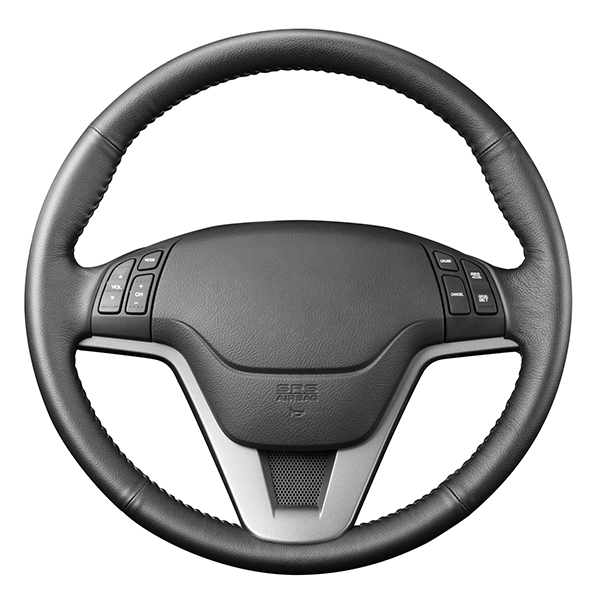
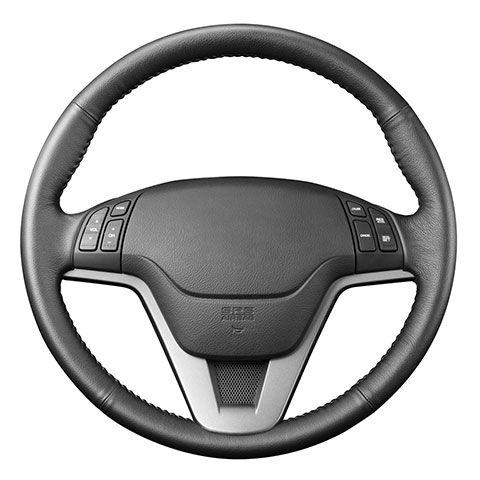
change photo canvas and headings

diff --git a/index.html b/index.html
@@ -11,20 +11,18 @@
   <body>
     <div id="page-container">
       <header></header>
-      <!--mixin	products ()-->
-      <!--  .col.md-4-16.col.sm-8-16.col.xs-16-16-->
-      <!--		a.item-->
+      <!--					a.item(href="http://www.autohidraulika.lt/", target="_blank")-->
       <!---->
-      <!--			.logo-->
-      <!--				.img-box-->
-      <!--					img(src='assets/images/logos/Vairo-centras-logo.jpg', alt='Autohidraulika vairas')-->
+      <!--						.item__logo-->
       <!---->
-      <!--			.img-box.center-->
-      <!--				img(src='assets/images/products/img1.jpg', alt='Autohidraulika vairas')-->
+      <!--							img(src='assets/images/logos/Vairo-centras-logo.jpg', alt='Autohidraulika vairas')-->
       <!---->
-      <!--			.info-->
-      <!--				h2 Autohidraulika-->
-      <!--				p Specializuotas vairo sistemų servisas-->
+      <!---->
+      <!--						img.item__center(src='assets/images/products/1as.jpg', alt='Autohidraulika vairas')-->
+      <!---->
+      <!--						.item__info-->
+      <!--							h2 Autohidraulika-->
+      <!--							p Specializuotas vairo sistemų servisas-->
       <!--mixin category(productLink, number, productHeadline, intro)-->
       <!--	.col.md-4-12-->
       <!--		a(href='' + productLink)-->
@@ -39,22 +37,22 @@
               <div class="items__container"><a class="item" href="http://www.autohidraulika.lt/" target="_blank">
                   <div class="item__logo"><img src="assets/images/logos/Vairo-centras-logo.jpg" alt="Autohidraulika vairas"></div><img class="item__center" src="assets/images/products/1as.jpg" alt="Autohidraulika vairas">
                   <div class="item__info">
-                    <h2>Autohidraulika</h2>
+                    <h3>Autohidraulika</h3>
                     <p>Specializuotas vairo sistemų servisas</p>
                   </div></a><a class="item" href="https://www.atg-components.com/" target="_blank">
                   <div class="item__logo"><img src="assets/images/logos/atg.jpg" alt="atg logo"></div><img class="item__center" src="assets/images/products/2as.jpg" alt="atg components">
                   <div class="item__info">
-                    <h2>atg components</h2>
+                    <h3>atg components</h3>
                     <p>Vairo sistemų remonto komponentai</p>
                   </div></a><a class="item" href="https://www.motorherz.us/" target="_blank">
                   <div class="item__logo"><img src="assets/images/logos/motorherz.jpg" alt="logo motorherz"></div><img class="item__center" src="assets/images/products/3as.jpg" alt="motorherz vairo kolonelės">
                   <div class="item__info">
-                    <h2>motorherz</h2>
+                    <h3>motorherz</h3>
                     <p>Mažmeninė prekyba vairo kolonėlėmis</p>
                   </div></a><a class="item" href="https://www.epstesting.com/" target="_blank">
                   <div class="item__logo"><img src="assets/images/logos/athidraulic.jpg" alt="athidraulic logo"></div><img class="item__center" src="assets/images/products/4as.jpg" alt="eps testing vairo sistemos">
                   <div class="item__info">
-                    <h2>eps testing</h2>
+                    <h3>eps testing</h3>
                     <p>Vairo sistemų agregatų testavimo įranga</p>
                   </div></a></div>
             </div>

diff --git a/assets/css/style.css b/assets/css/style.css
@@ -398,12 +398,12 @@ h1 {
   font-size: 3em; }
 
 h2 {
-  font-size: 2.125em;
-  font-weight: 600;
-  margin: 0; }
+  font-size: 2em; }
 
 h3 {
-  font-size: 1.2em; }
+  font-size: 2.5em;
+  font-weight: 600;
+  margin: 0; }
 
 h4 {
   font-size: 1em; }
@@ -417,7 +417,8 @@ h6 {
 p {
   margin-top: 0.5em;
   margin-bottom: 0;
-  line-height: 19px; }
+  line-height: 19px;
+  font-weight: 500; }
 
 a {
   text-decoration: none; }
@@ -2890,7 +2891,8 @@ blockquote {
   .item .item__info {
     position: absolute;
     bottom: 65px;
-    left: 40px; }
+    padding: 0 40px 0 40px;
+    padding-right: 40px; }
   .item:hover img.item__center {
     -webkit-transform: translateX(0%);
     -ms-transform: translateX(0%);
@@ -2902,11 +2904,14 @@ blockquote {
     -ms-transform: translateX(0%);
     transform: translateX(0%); }
   .item .item__info {
-    left: 20px;
-    bottom: 30px; } }
+    padding: 0 20px 0 20px;
+    bottom: 30px; }
+    .item .item__info h3 {
+      font-size: 2.125em; } }
 
 @media (max-width: 768px) {
   .item {
+    height: 50vh;
     width: 50%;
     border-bottom: solid 1px #E0E0E0; }
     .item .item__logo {
@@ -2919,18 +2924,17 @@ blockquote {
 
 @media (max-width: 568px) {
   .item {
+    height: 480px;
     width: 100%;
     border-bottom: solid 1px #E0E0E0; }
     .item .item__logo {
-      margin: 35px 0 30px 0; }
+      margin: 30px 0 50px 0; }
     .item img.item__center {
-      position: relative;
+      position: static;
       width: 245px; }
     .item .item__info {
-      position: relative;
+      position: static;
       left: 0;
-      top: 50%;
-      -webkit-transform: translateY(-50%);
-      -ms-transform: translateY(-50%);
-      transform: translateY(-50%);
-      text-align: center; } }
+      text-align: center;
+      margin: 25px 0;
+      padding: 0; } }

diff --git a/assets/sass/7_responsive/_1-responsive-layout.sass b/assets/sass/7_responsive/_1-responsive-layout.sass
@@ -2,6 +2,7 @@
 //
 //@media (max-width: $grid-breakpoint-lg)
 
+
 //iPad Pro
 @media (max-width: $grid-breakpoint-md)
 	.item
@@ -12,14 +13,16 @@
 			//height: 300px
 
 		.item__info
-			left: 20px
+			padding: 0 20px 0 20px
 			bottom: 30px
+			h3
+				font-size: 2.125em
 			
 
 //iPad
 @media (max-width: $grid-breakpoint-sm)
 	.item 
-		//height: 515px
+		height: 50vh
 		
 		width: 50%
 		border-bottom: solid 1px $color-secondary
@@ -37,14 +40,14 @@
 //Telefonai
 @media (max-width: $grid-breakpoint-xs)
 	.item
-		//height: 480px
+		height: 480px
 		
 		width: 100%
 		border-bottom: solid 1px $color-secondary
 		.item__logo
-			margin: 35px 0 30px 0
+			margin: 30px 0 50px 0
 		img.item__center
-			position: relative
+			position: static
 			//transform: translateX(0%)
 			
 			//transition: none
@@ -54,13 +57,15 @@
 			
 			
 		.item__info
-			position: relative
+			position: static
 			
 			left: 0
-			//transform: translateX(-50%)
-			top: 50%
-			transform: translateY(-50%)
+		
+			//top: 50%
+			//transform: translateY(-50%)
 			text-align: center
+			margin: 25px 0
+			padding: 0
 			
 			
 

diff --git a/assets/sass/3_setup/_3-typography.sass b/assets/sass/3_setup/_3-typography.sass
@@ -10,11 +10,12 @@ body
 h1
   font-size: 3em
 h2
-  font-size: 2.125em
+	font-size: 2em
+
+h3
+  font-size: 2.5em
   font-weight: $semibold
   margin: 0
-h3
-  font-size: 1.2em
 h4
   font-size: 1em
 h5
@@ -25,7 +26,7 @@ p
   margin-top: 0.5em
   margin-bottom: 0
   line-height: $body-line-height
- 
+  font-weight: $medium
 	
 a
   text-decoration: none

diff --git a/assets/sass/5_layout/_3-index.sass b/assets/sass/5_layout/_3-index.sass
@@ -41,7 +41,8 @@
 
 		position: absolute
 		bottom: 65px	
-		left: 40px
+		padding: 0 40px 0 40px
+		padding-right: 40px
 
 
 	&:hover
